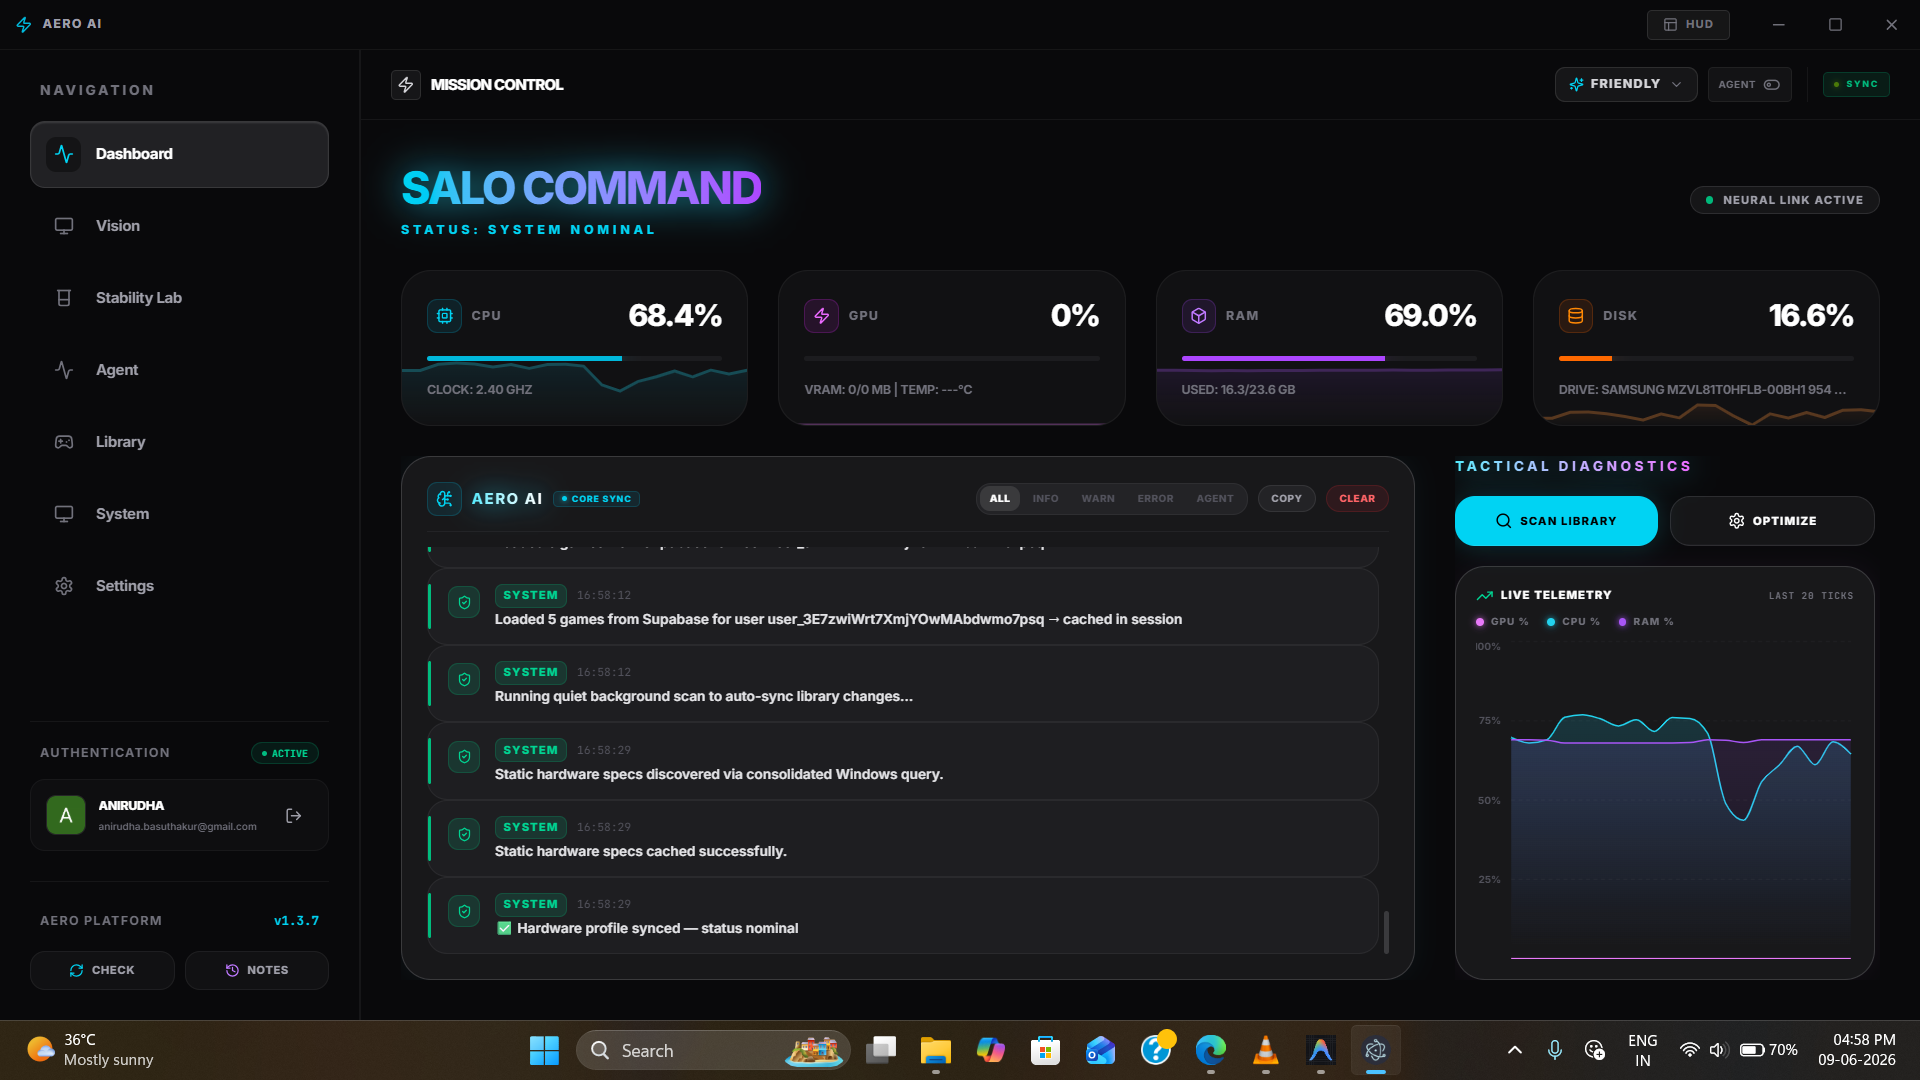
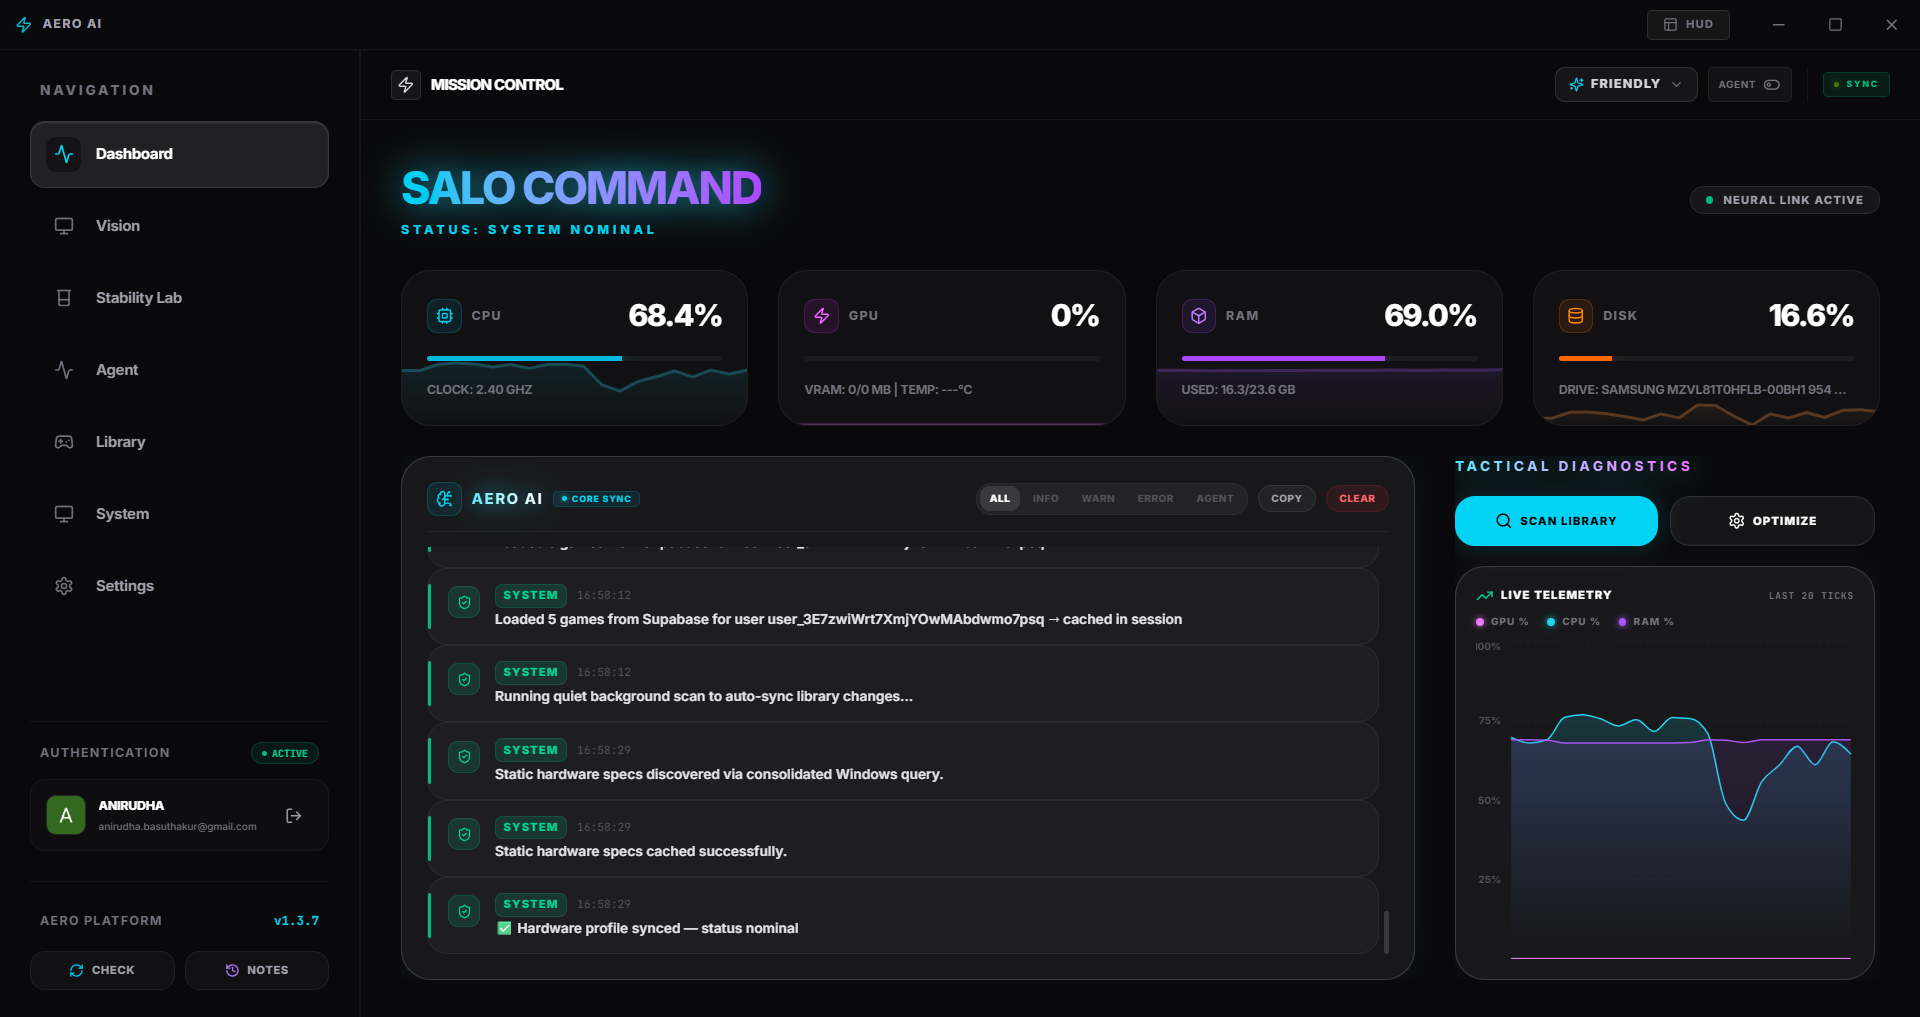
fix: terminate orphaned backend processes on startup to prevent version defaulting to v1.7.5

diff --git a/Gaming/frontend/electron/main.ts b/Gaming/frontend/electron/main.ts
@@ -505,24 +505,37 @@ function startPythonBackend() {
     : path.join((process as any).resourcesPath, 'backend', 'main.py')
 
   const port = parseInt(process.env.VITE_BRIDGE_PORT || '8765', 10)
-  const timeout = setTimeout(() => {
-    // Timeout - no response from backend on port, try spawning
-    console.log(`[Electron] Backend probe timeout on port ${port}. Spawning new backend instance...`)
-    spawnBackend()
-  }, 2000)
 
-  // Probe port first to check if external python backend is already running
-  const socket = netSocket.createConnection({ port, host: '127.0.0.1' }, () => {
-    clearTimeout(timeout)
-    console.log(`[Electron] ✓ External Python backend detected on port ${port}. Skipping auto-spawn.`)
-    socket.end()
-  })
+  // In packaged mode, kill any orphaned background backend process first to ensure we launch the updated binary
+  if (!isDev && process.platform === 'win32') {
+    try {
+      execSync('taskkill /f /im MissionControl.exe', { windowsHide: true, stdio: 'ignore' })
+      console.log('[Electron] Cleaned up lingering MissionControl.exe background processes on startup.')
+    } catch (_) {}
+  }
 
-  socket.on('error', () => {
-    clearTimeout(timeout)
-    console.log(`[Electron] Port ${port} is free. Starting Python backend: ${scriptPath}`)
+  if (isDev) {
+    const timeout = setTimeout(() => {
+      console.log(`[Electron] Backend probe timeout on port ${port}. Spawning new backend instance...`)
+      spawnBackend()
+    }, 2000)
+
+    // Probe port first in dev mode to check if external python backend is already running
+    const socket = netSocket.createConnection({ port, host: '127.0.0.1' }, () => {
+      clearTimeout(timeout)
+      console.log(`[Electron] ✓ External Python backend detected on port ${port}. Skipping auto-spawn.`)
+      socket.end()
+    })
+
+    socket.on('error', () => {
+      clearTimeout(timeout)
+      console.log(`[Electron] Port ${port} is free. Starting Python backend: ${scriptPath}`)
+      spawnBackend()
+    })
+  } else {
+    // Packaged production mode: spawn bundled backend directly
     spawnBackend()
-  })
+  }
 
   function spawnBackend() {
     // ── Priority chain ──────────────────────────────────────────────────────
